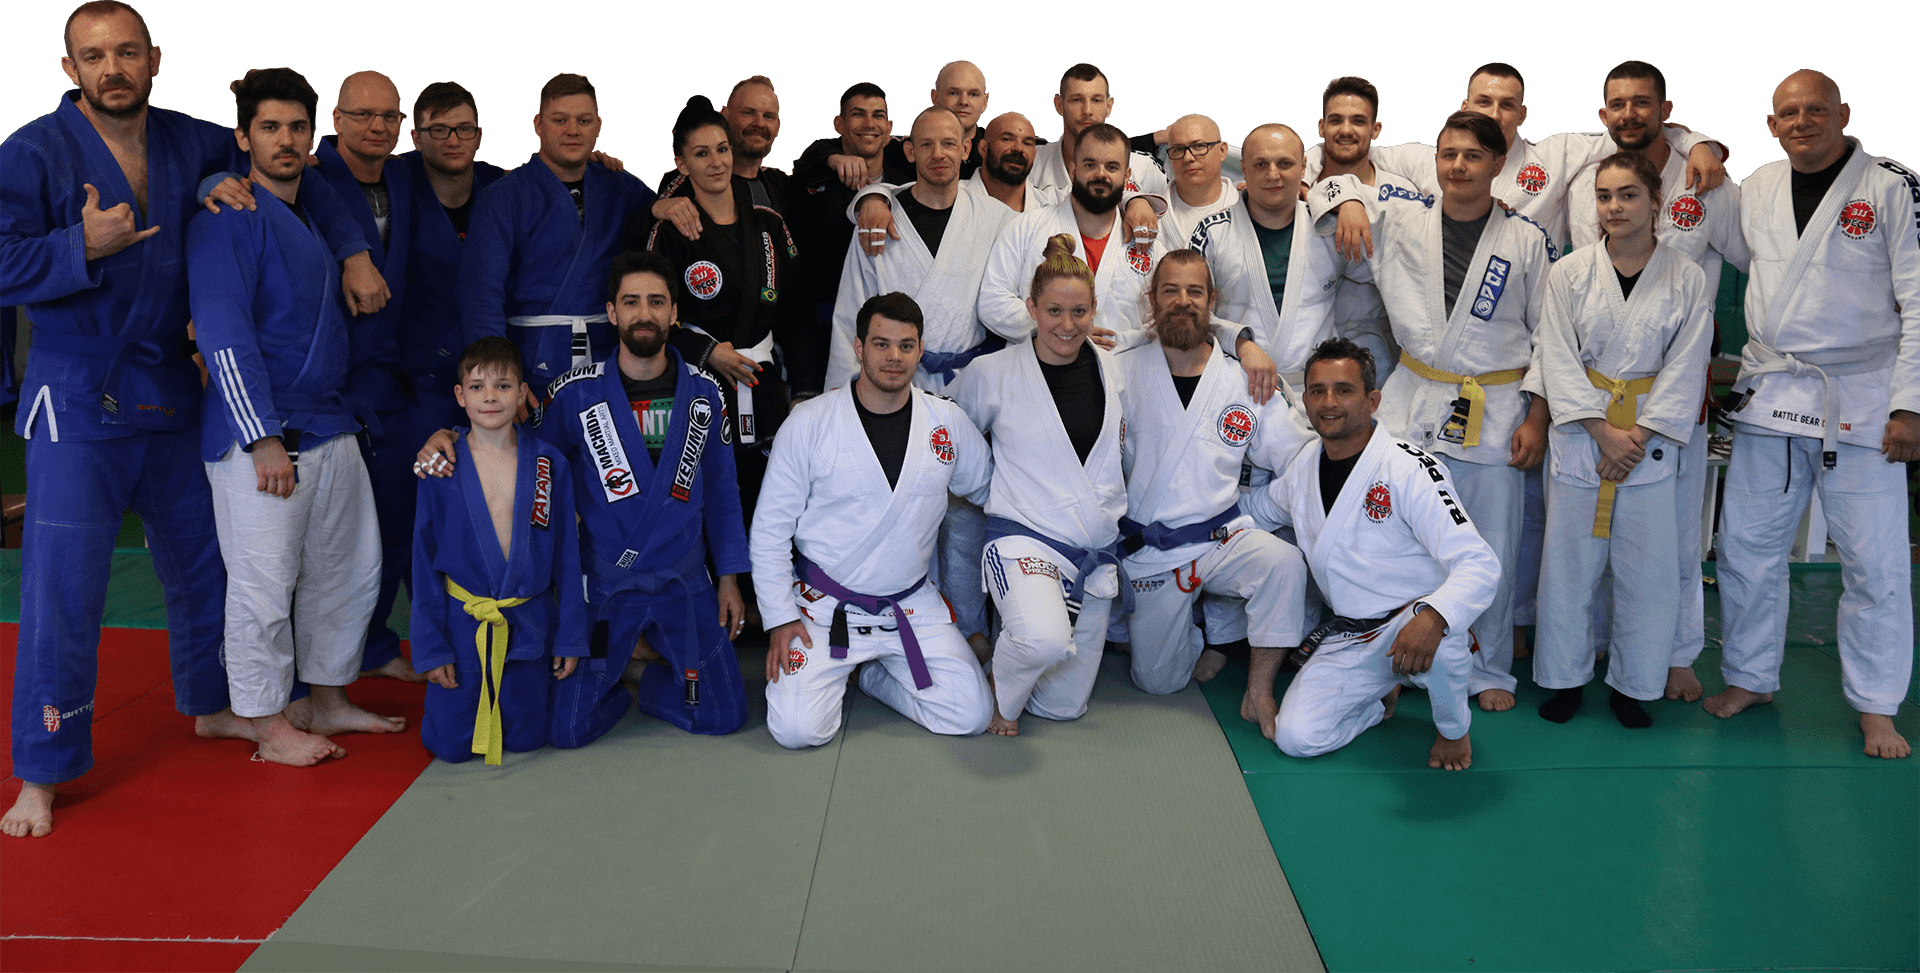
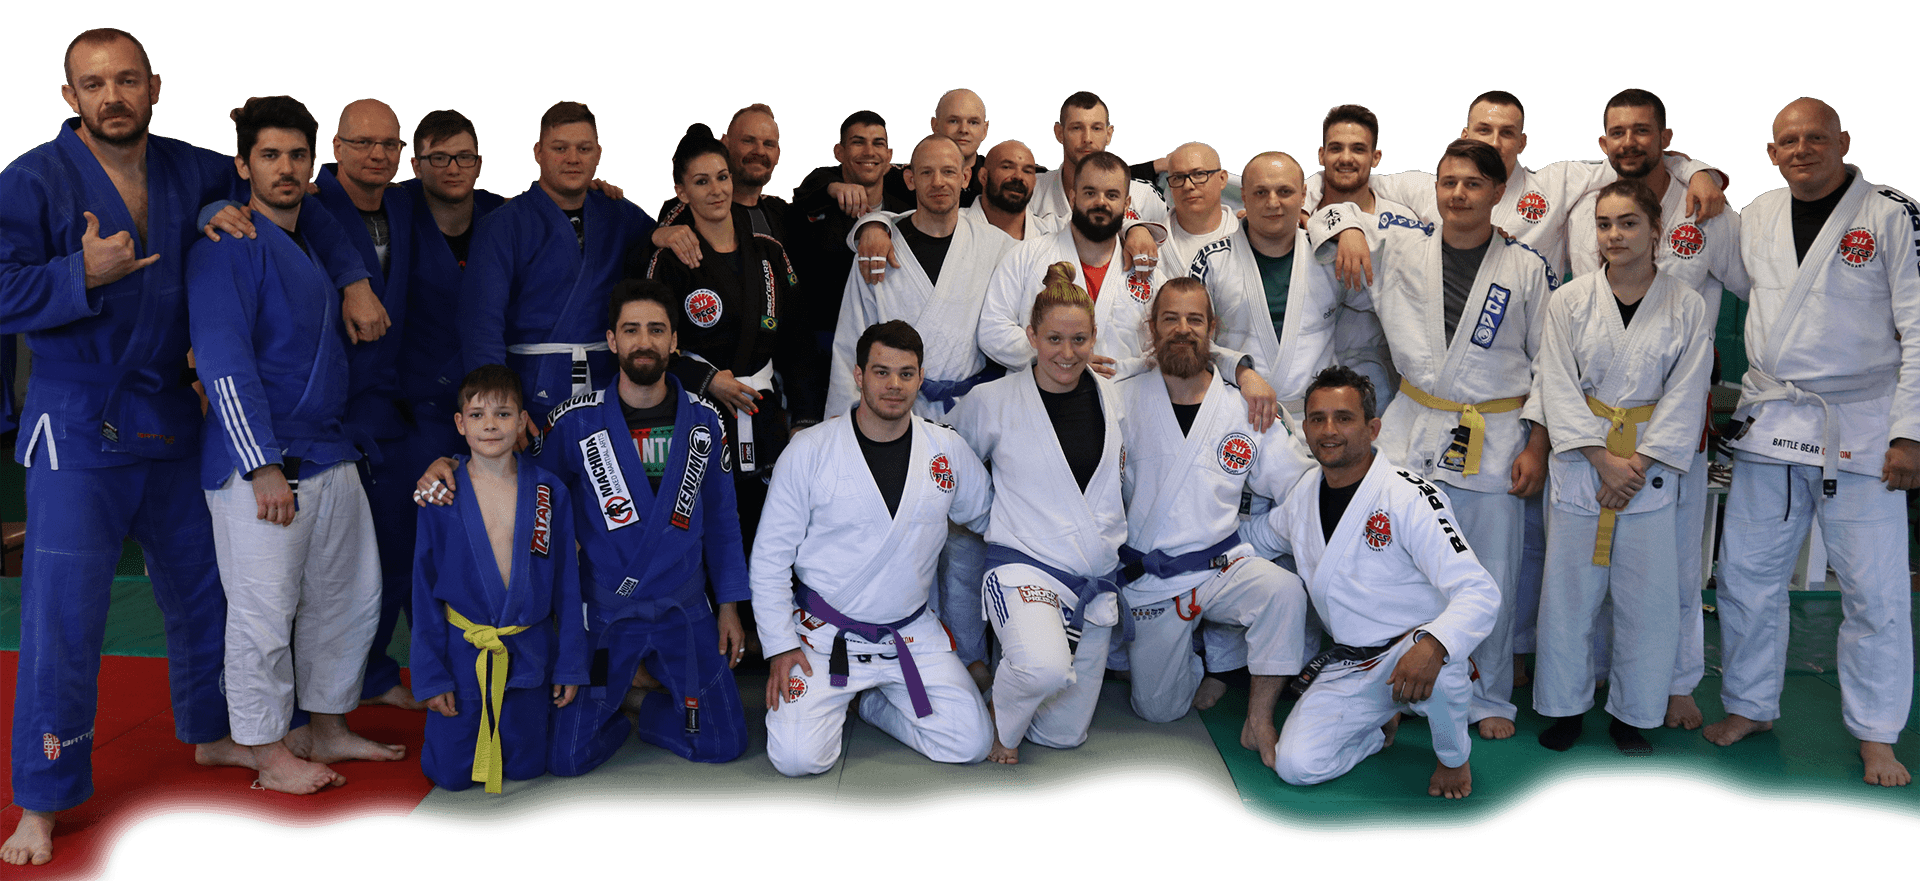
Changes applied in timetable, and pictures

diff --git a/css/styles.css b/css/styles.css
@@ -1,9 +1,9 @@
 @import url('https://fonts.googleapis.com/css2?family=Bungee&family=IBM+Plex+Mono:ital,wght@0,100;0,200;0,300;0,400;0,500;0,600;0,700;1,100;1,200;1,300;1,400;1,500;1,600;1,700&display=swap');
-
+@import url('https://fonts.googleapis.com/css2?family=Oswald:wght@200;300;400;500;600;700&display=swap');
 
 :root {
 /*-- Font sizes (1rem => 16px) --*/
-    --nav-fs: clamp(1rem, 1vw, 4rem);
+    --nav-fs: clamp(1.5rem, 1vw, 3rem);
     --cta-lg-fs: clamp(2rem, 2vw + 0.5rem, 6rem);
     --quote: clamp(3rem, 2vw + 0.5rem, 8rem);
 /*-- Colors --*/
@@ -15,7 +15,7 @@
 }
 @media screen and (max-width: 1360px) {
     :root {
-        --nav-fs: clamp(0.8rem, 1vw + 0.5rem, 2.5rem);
+        --nav-fs: clamp(1.2rem, 1vw + 0.5rem, 3rem);
         --cta-lg-fs: clamp(1rem, 2vw + 0.4rem, 3rem);
         --quote: clamp(0.6rem, 3vw + 0.5rem, 6rem);
         --margin-lg: 8rem;
@@ -24,7 +24,7 @@
  }
 @media screen and (max-width: 760px) {
      :root {
-         --nav-fs: clamp(0.3rem, 4vw + 0.2rem, 1rem);
+         --nav-fs: clamp(0.5rem, 4vw + 0.4rem, 1.2rem);
          --cta-lg-fs: clamp(0.2rem, 3vw + 0.2rem, 2rem);
          --quote: clamp(0.4rem, 3vw + 0.3rem, 3rem);
          --margin-lg: 6rem;
@@ -48,8 +48,12 @@ body {
     color: var(--sec-bg-color);
 }
 h1,h2,h3,h4,h5,h6,nav {
-    font-family: 'Bungee', cursive;
+    /*font-family: 'Bungee', cursive;*/
+    font-weight: bold;
+    font-family: 'Oswald', sans-serif;
+    letter-spacing: 1px;
 }
+
 
 a {
     text-decoration: none;
@@ -126,12 +130,9 @@ main {
     font-weight: 800;
     font-size: var(--heading-desktop-font-size);
     color: var(--sec-bg-color);
-    padding: 20px;
+    padding: 16px;
     
 }
-
-
-
 .inner-content {
     width: 95%;
     margin: 24px auto;
@@ -147,8 +148,8 @@ main {
 .inner-img-container img {
     box-sizing: content-box;
     width: 100%;
+    height: 100%;
     max-width: 100%;
-    height: auto;
     box-shadow: rgba(0, 0, 0, 0.07) 0px 1px 2px, 
                 rgba(0, 0, 0, 0.07) 0px 2px 4px, 
                 rgba(0, 0, 0, 0.07) 0px 4px 8px, 
@@ -166,13 +167,13 @@ main {
     
 }
 .inner-txt-container h3 {
-    padding: 24px;
+    margin: 16px 16px;
 }
 .inner-txt {
     width: 100%;
     height: auto;
     text-align: justify;
-    padding: 24px;
+    padding: 16px;
 }
 
 .person {
@@ -244,7 +245,7 @@ main {
     background-size: cover;
     background: linear-gradient(180deg, 
      rgba(244,249,249,0) 0%,
-     rgba(244,249,249,0.681185853247549) 70%,
+     rgba(244,249,249,0.681185853247549) 80%,
      rgba(244,249,249,1) 100%),
     url(../pictures/csoportkep_1920.png);
     background-size: cover;
@@ -263,7 +264,7 @@ main {
     width: 18%;
     height: auto;
     position: relative;
-    top: -15vw;
+    top: -10vw;
     border-radius: 50%;
     box-shadow: rgba(0, 0, 0, 0.08) 0px 4px 12px;
     transition: width 0.5s ease-in-out;
@@ -482,7 +483,7 @@ border: 1px solid var(--main-bg-color);
 
 @media screen and (max-width: 760px) {
     main {
-        top: 10vh;
+        top: 5vh;
     }
     .cta-heading a {
         font-size: var(--cta-lg-fs);
@@ -504,7 +505,7 @@ border: 1px solid var(--main-bg-color);
         align-content: space-between;
         justify-content: space-between;
         margin: 8px;
-        margin-bottom: 10vh;
+        margin-bottom: 5vh;
     }
     .nav-control h1 {
         font-weight: 400;
@@ -534,6 +535,9 @@ border: 1px solid var(--main-bg-color);
         margin: auto;
         text-align: center;
     }
+    .nav_links_container {
+        margin-top: -5vh;
+    }
 
     .nav_link {
         width: 100%;
@@ -551,9 +555,11 @@ border: 1px solid var(--main-bg-color);
 */
 
 .schedule-container {
-    display: flex;
+    display: block;
     width: 100%;
     height: 100%;
+    overflow-x: auto;
+    overflow-y: hidden;
     justify-content: center;
     align-items: center;
 }
@@ -564,7 +570,11 @@ border: 1px solid var(--main-bg-color);
 }
 .schedule {
     display: flex;
-    flex-wrap: wrap;
+    width: 1400px;
+    margin: auto;
+    flex-wrap: nowrap;
+    overflow-x: scroll;
+    overflow-y: hidden;
     justify-content: center;
 }
 .day {

diff --git a/index.html b/index.html
@@ -69,11 +69,17 @@
         <h2 id="quote"><i>"Stay Cool Under Pressure<sub>"</sub></i></h2>
         <div class="inner-content">
           <div class="inner-txt-container">
-            <h3>Bemutatkozás</h3>
+            <h3>Edzőtermünkről</h3>
+
+            <!--
+              Edzése ink
+              Ismerjen meg minket
+              A brazil jiu jitsuról 
+            -->
             <p class="inner-txt">- Köszöntő és motiváció <br /></p>
 
             <p class="inner-txt">
-              - Alapinformációk a csapatról <br />
+              - Alapinformációk a csapatról<br />
               - Alapinformációk az edzésekről<br />
             </p>
 
